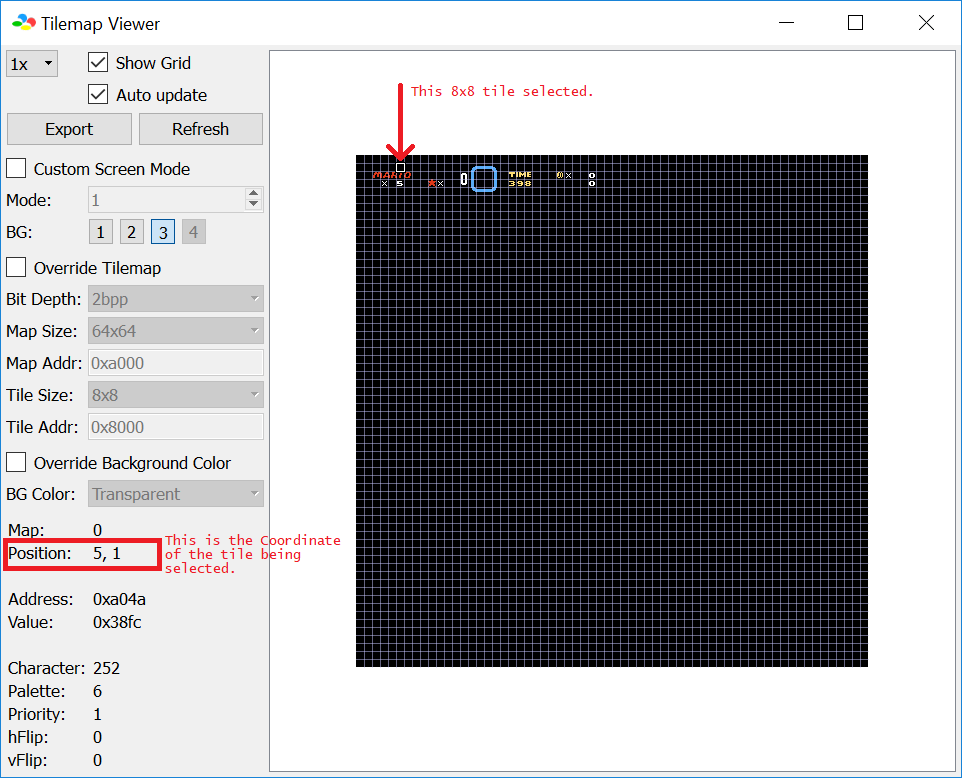
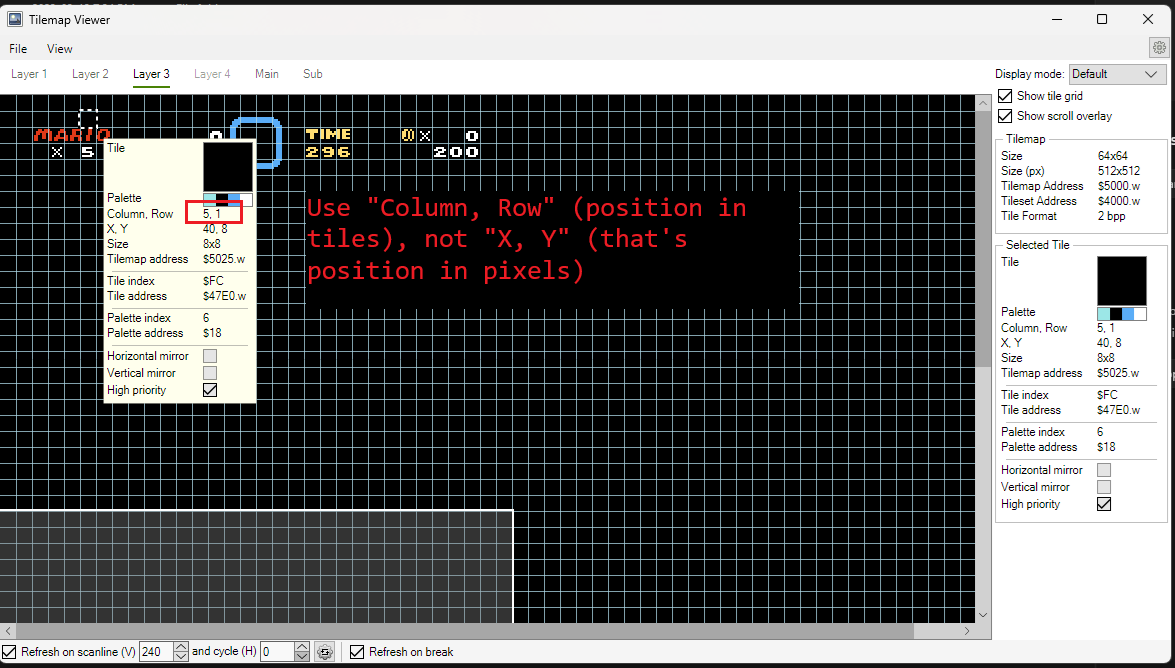
...

diff --git a/RAM_BAR_MemoryLocater.html b/RAM_BAR_MemoryLocater.html
@@ -1,148 +1,224 @@
 <html>
 	<head>
 		<style>
+			html {
+			background-color: #101010;
+			color: rgb(221, 221, 221);
+			font-family: sans-serif;
+			}
+			
 			table, th, td {
-			border: 1px solid black;
+			border: 1px solid white;
 			border-collapse: collapse;
+			}
+			
+			abbr{cursor: help;}
+			img.img-hor {
+				-moz-transform: scaleX(-1);
+				-o-transform: scaleX(-1);
+				-webkit-transform: scaleX(-1);
+				transform: scaleX(-1);
+				filter: FlipH;
+				-ms-filter: "FlipH";
+			}
+			div.CodeBlock {
+				overflow: auto;
+				width: 1000px;
+				height: 500px;
+				border: 1px solid white;
+				resize: both;
+				background-color: #101010;
+			}
+			pre {
+				margin: 0px;
+			}
+			*.FixedWidth {
+				font-family: monospace;
+			}
+			
+			*.NoLineBreak {
+				font-family: monospace;
+				white-space: pre;
+			}
+			*.Center {
+				text-align: center;
+			}
+			li {
+				padding: 5px;
+			}
+			input {
+				font-family: monospace;
+			}
+			summary {
+				border: 1px solid white;
+				background-color: #707070;
+				cursor: pointer;
 			}
 		</style>
 	</head>
-<body onload="Calculate()">
-<div style="max-width:588px;">You can actually find the address of a given XY coordinate using a formula:<br>
-<br><kbd>AddressOffset = (X * $02) + (Y * $40) + P</kbd><br><br>
-
-Where:
-<ul>
-<li><kbd>X</kbd> and <kbd>Y</kbd> values are integer coordinates, in units of 8x8 tiles (integers only):
-<ul>
-<li>X (valid in range 0-31 ($00-$1F) inclusive) starting at the left at $00 increasing going rightwards.</li>
-<li>Y (valid in range 0-4 ($00-$04) inclusive) starting at the top at $00 increasing going downwards.</li>
-</ul>
-</li>
-<li><kbd>P</kbd> is the properties:
-<ul>
-<li><kbd>P = 0</kbd> if you wanted the <kbd>TTTTTTTT</kbd> tile number.</li>
-<li><kbd>P = 1</kbd> if you wanted the <kbd>YXPCCCTT</kbd> tile properties.</li>
-</ul>
-</li>
-</ul>
-and that
-the default RAM address to use have zeroes in the lower bytes ($7fA<b>000</b>, which makes adding as replacing the zeros with the offset), this is here to make it even easier in the case
-of:
-<ul>
-<li>You have moved the RAM address to another location in which the starting address is no longer a row of zeroes in the last nth digits.</li>
-<li>You don't want to use the calculator all the time and re-calculating every time you want to use the status bar.</li>
-</ul>
-
-Notes:
-<ul>
-<li>Numbers prefixed with a dollar sign <kbd>$</kbd> means the number is a hexadecimal value, a number without any prefix is a decimal number.</li>
-<li><b>Tile x ($x)</b> refers to what tile in the order from left to right and top to bottom (the same way text are being read and written in most countries). As there are a total of 160 tiles (numbered from 0 to 159).</li>
-<li>The &ldquo;<b>Coordinate</b>&rdquo; refers to the position (<kbd>(XPosition, YPosition)</kbd>, in units of 8x8 tiles) of the tile on-screen, relative to the top-left corner. X moves right as it increases, and Y moves
-downwards as it increases.</li>
-</ul>
-
-Protip: To find exactly the tile you want to modify in your game without re-calculating the tiles, use <a href="https://github.com/devinacker/bsnes-plus/releases">BSNES plus debugger</a>:
-<ol>
-<li>Run the game and play any level you are making custom tiles</li>
-<li>Open <kbd>Tools</kbd> (Menubar) &rightarrow; <kbd>Debugger ...</kbd> &rightarrow; <kbd>S-PPU</kbd> (Menubar) &rightarrow; <kbd>Tilemap Viewer</kbd>.</li>
-<li>Select &ldquo;3&rdquo; for BG (this will view the layer 3 BG, the status bar and other layer 3 stuff). Now enable &ldquo;Show Grid&rdquo; (provided you are using the
-latest version of BSNES plus; version 04 (jun 18, 2018, github says &ldquo;Jun 23, 2018&rdquo;) is what I'm using) and &ldquo;Auto Update&rdquo;, and select the tile to
-find its coordinate (click image to expand, sorry for big resolution, I'm using a TV as a monitor):<br>
-<span id="StatusBarTileGrid"><img onclick="ExpandImage()" width="200" src="RAM_BAR_MemoryLocater_files/StatusBarGridMap.png"></span><br>
-Oh, and by the way, regardless of the tilemap size (1x1, 1x2, 2x1 and 2x2 screen), the status bar is always at the top left, and the coordinates are always the same, so don't
-worry.<br><br>
-Currently, these numbers are decimal, in the case the newer version is a different radix number (say, hex), pay attention to the prefix (<kbd>0x</kbd>, for example).</li>
-<li>Enter the RAM address used in the patch labeled <kbd>!RAM_BAR</kbd> in the box on the very bottom of this HTML and hit submit (this will generate the memory statistics including
-the regions and tile locations table following the input you entered).</li>
-<li>CTRL+F and type the coordinates you got from the debugger (note that leading zeros and spaces are nonexistent, so if you are looking for <kbd>5, 1</kbd>, you should type
-&ldquo;(5,1)&rdquo;, and if they are in hex in the debugger (possibly in the future version), use &ldquo;<kbd>$</kbd>&rdquo; instead of <kbd>0x</kbd>.)</li>
-<li>After finding the coordinate in the generated table, you now have the address(es) of that particular tile (in this example, it is address <kbd>$7FA04A</kbd> and <kbd>$7FA04B</kbd> provided you
-didn't change the default RAM address and are not using SA-1).</li>
-</ol>
-</div>
-<kbd>!RAM_BAR = $<input type="text" list="StatusBarRAMTileList" id="FreeramRamBar" value ="7FA000" maxlength="6" onchange="Calculate()"></kbd><button type="button" onclick="IncreaseDecreaseRAM(1)">+</button><button type="button" onclick="IncreaseDecreaseRAM(-1)">-</button><button type="button" onclick="IncreaseDecreaseRAM(2)">+2</button><button type="button" onclick="IncreaseDecreaseRAM(-2)">-2</button><button type="button" onclick="Reset()">Reset</button>
+<body onload="Calculate()" style="max-width: 1000px; margin: auto; padding: 15px">
+	<div>
+		You can actually find the address of a given XY coordinate using a formula:<br>
+		<br><kbd>AddressOffset = (X * $02) + (Y * $40) + P</kbd><br><br>
+	
+		Where:
+		<ul>
+			<li><kbd>X</kbd> and <kbd>Y</kbd> values are integer coordinates, in units of 8x8 tiles (integers only):
+				<ul>
+					<li>X (valid in range <kbd>0~31</kbd> (<kbd>$00~$1F</kbd>) inclusive) starting at the left at <kbd>$00</kbd> increasing going rightwards.</li>
+					<li>Y (valid in range <kbd>0~4</kbd> (<kbd>$00~$04</kbd>) inclusive) starting at the top at <kbd>$00</kbd> increasing going downwards.</li>
+				</ul>
+			</li>
+			<li><kbd>P</kbd> is the properties:
+				<ul>
+					<li><kbd>P = 0</kbd> if you wanted the <kbd>TTTTTTTT</kbd> tile number.</li>
+					<li><kbd>P = 1</kbd> if you wanted the <kbd>YXPCCCTT</kbd> tile properties.</li>
+				</ul>
+			</li>
+		</ul>
+		and that
+		the default RAM address to use have zeroes in the lower bytes ($7fA<b>000</b>, which makes adding as replacing the zeros with the offset), this is here to make it even easier in the case
+		of:
+		<ul>
+			<li>You have moved the RAM address to another location in which the starting address is no longer a row of zeroes in the last nth digits.</li>
+			<li>You don't want to use the calculator all the time and re-calculating every time you want to use the status bar.</li>
+		</ul>
+	
+		Notes:
+		<ul>
+			<li>Numbers prefixed with a dollar sign <kbd>$</kbd> means the number is a hexadecimal value, a number without any prefix is a decimal number.</li>
+			<li><b>Tile x ($x)</b> refers to what tile in the order from left to right and top to bottom (the same way text are being read and written in most countries). As there are a total of 160 tiles (numbered from 0 to 159).</li>
+			<li>
+				The &ldquo;<b>Coordinate</b>&rdquo; refers to the position (<kbd>(XPosition, YPosition)</kbd>, in units of 8x8 tiles) of the tile on-screen, relative to the top-left corner. X moves right as it increases, and Y moves
+				downwards as it increases.
+			</li>
+		</ul>
+		<details>
+			<summary>Details on getting coordinates via debugger</summary>
+			Protip: To find exactly the tile you want to modify in your game without re-calculating the tiles, use a debugger that can display tilemap. For example using <a href="https://github.com/SourMesen/Mesen2/">Mesen 2.0 or higher</a>:
+			<ol>
+				<li>Run the game and play any level you are making custom tiles</li>
+				<li>Go to the menu bar, &rarr; Debug &rarr; Tilemap Viewer, and switch to the layer 3 tab.</li>
+				<li>
+					You should see this upon hovering a desired tile:<br>
+					<span id="StatusBarTileGrid"><img src="RAM_BAR_MemoryLocater_files/StatusBarGridMap.png"></span><br>
+					Currently, these numbers are in decimal, in the case the newer version is a different radix number (say, hex), pay attention to the prefix (<kbd>$</kbd> or <kbd>0x</kbd>, for example).
+				</li>
+				<li>
+					Enter the RAM address used in the patch labeled <kbd>!RAM_BAR</kbd> in the box on the very bottom of this HTML (this will automatically generate the memory statistics including
+					the regions and tile locations table following the input you entered).
+				</li>
+				<li>
+					CTRL+F and type the coordinates you got from the debugger (note that leading zeroes are present, for example, searching <kbd>(5, 1)</kbd>, you should type
+					&ldquo;<kbd>(05 ,01)</kbd></kbd>&rdquo;, and if they are in hex in the debugger (possibly in the future version), use &ldquo;<kbd>$</kbd>&rdquo; instead of <kbd>0x</kbd>.)
+				</li>
+				<li>
+					After finding the coordinate in the generated table, you now have the address(es) of that particular tile (in this example, it is address <kbd>$7FA04A</kbd> and <kbd>$7FA04B</kbd> provided you
+					didn't change the default RAM address and are not using SA-1).
+				</li>
+			</ol>
+		</details><br>
+	</div>
+<kbd>!RAM_BAR = $<input type="text" list="StatusBarRAMTileList" id="FreeramRamBar" value ="7FA000" onchange="Calculate()" style="font-family: monospace;" data-padlength="6" onkeydown="IncrementDecrementHex()" data-min="0" data-max="16777215" onchange="Calculate()"></kbd>
 <datalist id="StatusBarRAMTileList">
 <option value="7FA000">Default RAM address</option>
 <option value="404000">Default SA-1 RAM address</option>
 </datalist>
 <hr>
-<span id="RAMTable"></span>
+<span style="font-family: monospace;" id="Statistic_RAM_Bar_Range"></span><br><br>
+<div id="RAMTable" class="CodeBlock"></div>
 
 <script>
-	//check if the user presses ENTER.
-	//	var RAM_BAR_Address = document.getElementById("FreeramRamBar")
-	//	RAM_BAR_Address.addEventListener("keyup", function(event) {
-	//		if (event.keyCode === 13) {
-	//			Calculate();
-	//		}
-	//	});
-	function Reset() {
-		document.getElementById("FreeramRamBar").value = "7FA000"
-		Calculate()
+	function IncrementDecrementHex() {
+		let ElementUsed = event.target
+		let KeyPressed = event.key
+		let MinValue = BigInt(ElementUsed.dataset.min)
+		let MaxValue = BigInt(ElementUsed.dataset.max)
+		let Value = 0n
+		try {
+			Value = BigInt("0x" + ElementUsed.value)
+		} catch {}
+		if (event.altKey) {
+			return
+		}
+		if (!/(?:ArrowUp|ArrowDown)/.test(KeyPressed)) {
+			return
+		}
+		event.preventDefault()
+		if (KeyPressed == "ArrowUp") {
+			Value++
+		} else {
+			Value--
+		}
+		Value = BigintClamp(Value, MinValue, MaxValue)
+		ElementUsed.value = Value.toString(16).padStart(parseInt(ElementUsed.dataset.padlength), "0").toUpperCase()
+		ElementUsed.onchange()
 	}
-	function IncreaseDecreaseRAM(ChangeBy) {
-		document.getElementById("FreeramRamBar").value = clamp((parseInt(document.getElementById("FreeramRamBar").value, 16) + parseInt(ChangeBy, 10)), 0, parseInt("FFFFFF", 16)).toString(16).toUpperCase()
-		Calculate()
+	function BigintClamp(num, min, max) {
+		//Restrict a number within a specified range, bigInt edition.
+		return num <= min ? min : num >= max ? max : num;
 	}
 	function Calculate() {
-		document.getElementById("RAMTable").innerHTML = ""
-		var TileCount = 0
-		var StartingRAMAddress = clamp(parseInt(document.getElementById("FreeramRamBar").value, 16), 0, parseInt("FFFFFF", 16))
+		const NumberOfCols = 32n
+		const NumberOfRows = 5n
+		const Element_RAM_Bar = document.getElementById("FreeramRamBar")
+		const TotalTiles = NumberOfCols*NumberOfRows
+		let RAM_BAR = 0n
+		try {
+			RAM_BAR = BigInt("0x" + Element_RAM_Bar.value)
+		} catch {}
+		Element_RAM_Bar.value = RAM_BAR.toString(16).padStart(6, "0").toUpperCase()
 		
-		if (isNaN(StartingRAMAddress) == true) {
-			StartingRAMAddress = parseInt("7FA000", 16)
+		let OutputTable = document.getElementById("RAMTable")
+		while (OutputTable.lastElementChild) { //Clear the table
+			OutputTable.removeChild(OutputTable.lastElementChild)
 		}
-		document.getElementById("FreeramRamBar").value = StartingRAMAddress.toString(16).toUpperCase()
 		
-		//Due to how [.innerHTML] works, most browsers automatically closes any unclosed HTML tags, so a way around it is
-		//to put the entire HTML text into a variable as a string, then .innerHTML that variable.
-			var OutputHTML = "" //Reset so it doesn't add even more stuff when the user enters the info again.
-		//Display entire memory range
-			OutputHTML += "<kbd>Entire RAM range: $" + (StartingRAMAddress).toString(16).toUpperCase() + " (!RAM_BAR+$0) to $" + (StartingRAMAddress + 319).toString(16).toUpperCase() + " (!RAM_BAR+$13F)</kbd>"
+		document.getElementById("Statistic_RAM_Bar_Range").textContent = "!RAM_Bar usage: $" + Element_RAM_Bar.value + "~$" + (RAM_BAR+(TotalTiles*2n)-1n).toString(16).padStart(6, "0").toUpperCase() + " (" + (TotalTiles*2n).toString(10) + " bytes)"
+		
+		let Element_OutputTable = document.createElement("table")
+		let Element_OutputTable_HeaderRow = document.createElement("tr")
+		
+		let Element_OutputTable_Header_TileIndex = document.createElement("th")
+		Element_OutputTable_Header_TileIndex.appendChild(document.createTextNode("Tile index"))
+		Element_OutputTable_HeaderRow.appendChild(Element_OutputTable_Header_TileIndex)
+		
+		let Element_OutputTable_Header_TileCoordinate = document.createElement("th")
+		Element_OutputTable_Header_TileCoordinate.appendChild(document.createTextNode("Coordinate"))
+		Element_OutputTable_HeaderRow.appendChild(Element_OutputTable_Header_TileCoordinate)
+		
+		let Element_OutputTable_Header_Address = document.createElement("th")
+		Element_OutputTable_Header_Address.appendChild(document.createTextNode("Address (Tile number, properties)"))
+		Element_OutputTable_HeaderRow.appendChild(Element_OutputTable_Header_Address)
+		
+		Element_OutputTable.appendChild(Element_OutputTable_HeaderRow)
+		for (let TileIndex = 0n; TileIndex < TotalTiles; TileIndex++) {
+			let RowIndex = TileIndex % NumberOfCols
+			let ColIndex = TileIndex / NumberOfCols
+			let TileNumberAddressOffset = TileIndex*2n
+			let TilePropertiesAddressOffset = TileNumberAddressOffset+1n
+			let TileNumberAddress = RAM_BAR + TileNumberAddressOffset
+			let TilePropertiesAddress = TileNumberAddress+1n
 			
-		//Obtain subrange divided into each row.
-			var RowCount = 0
-			OutputHTML += "<table><tr><th>what row</th><th>Starting address</th><th>Ending address</th></tr>"
-			for (RowCount = 0; RowCount < 5; RowCount++) {
-				OutputHTML += "<tr>"
-				OutputHTML += "<td>Row " + RowCount + "</td>"
-				OutputHTML += "<td><kbd>$" + (StartingRAMAddress+(RowCount*64)).toString(16).toUpperCase() + " (!RAM_BAR+$" + (RowCount*64).toString(16).toUpperCase() +")</kbd></td>"
-				OutputHTML += "<td><kbd>$" + (StartingRAMAddress+((RowCount+1)*64)-1).toString(16).toUpperCase() + " (!RAM_BAR+$" + (((RowCount+1)*64)-1).toString(16).toUpperCase() + ")</kbd></td>"
-				OutputHTML += "</tr>"
-			}
-			OutputHTML += "</table><br>"
-		
-		var RAMAddress = document.getElementById("FreeramRamBar").value
-		
-		OutputHTML += "<table><tr><th>Tile location</th><th>Tile number byte (TTTTTTTT)</th><th>Tile properties byte (YXPCCCTT)</th></tr>"
-		for (TileCount = 0; TileCount < 160; TileCount++) {
-			if ((TileCount % 32) == 0) {
-				OutputHTML += "<tr><th colspan='3'><center>Row " + (Math.floor(TileCount/32)) + "</center></th></tr>"
-			}
-			OutputHTML += "<tr>"
-			OutputHTML += "<td><kbd>Tile: " + TileCount + " ($" + TileCount.toString(16).toUpperCase() + ")"
-			OutputHTML += " Coordinate: (" + (TileCount % 32) + "," + (Math.floor(TileCount/32)) + ") (($" + (TileCount % 32).toString(16).toUpperCase() + ",$" + (Math.floor(TileCount/32)).toString(16).toUpperCase() + "))</kbd></td>"
-			OutputHTML += "<td><kbd>$" + (StartingRAMAddress + (TileCount*2)).toString(16).toUpperCase() + " (!RAM_BAR+$" + (TileCount*2).toString(16).toUpperCase() + ")</kbd></td>"
-			OutputHTML += "<td><kbd>$" + (StartingRAMAddress + (TileCount*2) + 1).toString(16).toUpperCase() + " (!RAM_BAR+$" + ((TileCount*2) + 1).toString(16).toUpperCase() + ")</kbd></td>"
-			OutputHTML += "</tr>"
+			let Element_TableRow = document.createElement("tr")
+			
+			let Element_TableData_TileIndex = document.createElement("td")
+			Element_TableData_TileIndex.style.fontFamily = "monospace"
+			Element_TableData_TileIndex.appendChild(document.createTextNode(TileIndex.toString(10) + " ($" + TileIndex.toString(16).toUpperCase() + ")"))
+			Element_TableRow.appendChild(Element_TableData_TileIndex)
+			
+			let Element_TableData_Coordinate = document.createElement("td")
+			Element_TableData_Coordinate.style.fontFamily = "monospace"
+			Element_TableData_Coordinate.appendChild(document.createTextNode("(" + RowIndex.toString(10).padStart(2, "0") + ", " + ColIndex.toString(10).padStart(2, "0") + "), " + "($" + RowIndex.toString(16).padStart(2, "0").toUpperCase() + ", $" + ColIndex.toString(16).padStart(2, "0").toUpperCase() + ")"))
+			Element_TableRow.appendChild(Element_TableData_Coordinate)
+			Element_OutputTable.appendChild(Element_TableRow)
+			
+			let Element_TableData_Address = document.createElement("td")
+			Element_TableData_Address.style.fontFamily = "monospace"
+			Element_TableData_Address.appendChild(document.createTextNode("$" + TileNumberAddress.toString(16).padStart(6, "0").toUpperCase() + ", $" + TilePropertiesAddress.toString(16).padStart(6, "0").toUpperCase() + " (+$" + TileNumberAddressOffset.toString(16).padStart(3, "0").toUpperCase() + "/+$" + TilePropertiesAddressOffset.toString(16).padStart(3, "0").toUpperCase() + ")"))
+			Element_TableRow.appendChild(Element_TableData_Address)
+			Element_OutputTable.appendChild(Element_TableRow)
 		}
-		OutputHTML += "</table>"
-		
-		document.getElementById("RAMTable").innerHTML = (OutputHTML)
-	}
-	
-	function ExpandImage() {
-		document.getElementById("StatusBarTileGrid").innerHTML = '<img onclick="ShrinkImage()" src="RAM_BAR_MemoryLocater_files/StatusBarGridMap.png">'
-	}
-	
-	function ShrinkImage() {
-		document.getElementById("StatusBarTileGrid").innerHTML = '<img onclick="ExpandImage()" width="100" src="RAM_BAR_MemoryLocater_files/StatusBarGridMap.png">'
-	}
-	function clamp(num, min, max) {
-		if (isNaN(num) == true) {
-			num = 0
-		}
-		return num <= min ? min : num >= max ? max : num;
+		OutputTable.appendChild(Element_OutputTable)
 	}
 </script>
